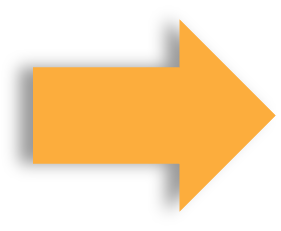
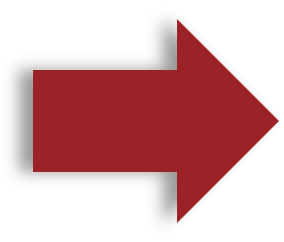
Updated GUI to include 'Ready' part and changed colors to white and red.

diff --git a/new_bci_framework/ui/ui.py b/new_bci_framework/ui/ui.py
@@ -4,6 +4,7 @@
 import numpy as np
 
 from new_bci_framework.config.config import Config
+from new_bci_framework.recorder.recorder import Recorder
 
 import time
 import pygame as pg
@@ -28,7 +29,7 @@ class UI:
 
         # colors:
         self.bg_color = (248, 240, 227)
-        self.bar_color = '#306DA3'
+        self.bar_color = '#9b2226'
 
         # font:
         pg.font.init()
@@ -39,6 +40,7 @@ class UI:
         self.bar_h = 20
         self.bar_x = self.screen_width / 2 - self.bar_w / 2
         self.bar_y = self.screen_height * 0.9 - self.bar_h / 2
+        self.curr_work: int = 0
 
         # To be added after init
         self.work: int = np.nan
@@ -51,17 +53,19 @@ class UI:
 
         self.screen.fill(self.bg_color)
         self.display_message('Hello, training session will start soon', self.center)
-        time.sleep(2)
+        time.sleep(self.config.PAUSE_LENGTH * 2)
 
         self.screen.fill(self.bg_color)
         self.display_message('Starting now', self.center)
-        time.sleep(1)
 
-    def display_event(self, label: str) -> None:
+    def display_event(self, recorder: Recorder, label: str) -> None:
         raise NotImplemented
 
     def set_work(self, work):
         self.work = work
+
+    def set_curr_work(self, curr_work):
+        self.curr_work = curr_work
 
     def add_images(self, images: Dict[str, str]):
         images = {label: pg.image.load(img) for label, img in images.items()}
@@ -79,7 +83,7 @@ class UI:
         self.screen.blit(image, image_rect)
         pg.display.flip()
 
-    def update_progress_bar(self, work_remained=0):
+    def update_progress_bar(self):
         # Border:
         pg.draw.rect(self.screen, self.bar_color, pg.Rect(self.bar_x, self.bar_y, self.bar_w, self.bar_h), 1)
 
@@ -87,19 +91,20 @@ class UI:
         if self.work == 0 or np.isnan(self.work):
             progress = 1
         else:
-            progress = 1 - work_remained / self.work
+            progress = 1 - (self.work - self.curr_work) / self.work
         pg.draw.rect(self.screen, self.bar_color, pg.Rect(self.bar_x, self.bar_y, self.bar_w * progress, self.bar_h))
-
-        pg.display.flip()
 
     def clear_screen(self):
         self.screen.fill(self.bg_color)
+        self.update_progress_bar()
         pg.display.flip()
 
     def quit(self):
+        self.set_curr_work(self.work)
         self.clear_screen()
+        time.sleep(self.config.PAUSE_LENGTH)
         self.display_message('Session is over, Thanks!', self.center)
-        time.sleep(1)
+        time.sleep(self.config.PAUSE_LENGTH)
         pg.quit()
 
     @staticmethod

diff --git a/new_bci_framework/paradigm/MI_paradigm.py b/new_bci_framework/paradigm/MI_paradigm.py
@@ -14,11 +14,8 @@ class MIParadigm(Paradigm):
 
     def __init__(self, config: Config, ui: UI):
         super(MIParadigm, self).__init__(config)
-        self.class_map = config.TRIAL_LABELS
-
+        self.trial_labels = config.TRIAL_LABELS
         self.num_trials_per_class = config.NUM_TRIALS_PER_CLASS
-        self.time_per_trial = config.TIME_PER_TRIAL
-        self.time_between_trials = config.TIME_BETWEEN_TRIALS
 
         self.events = self.__get_event_list()
         self.work = len(self.events)
@@ -30,15 +27,15 @@ class MIParadigm(Paradigm):
         self.ui.set_work(len(self.events))
 
         for i in range(self.work):
+            self.ui.set_curr_work(i)
             self.ui.clear_screen()
-            self.ui.update_progress_bar(work_remained=self.work - i)
             if self.ui.need_to_quit():
                 break
-            self.ui.display_event(self.events[i])
+            self.ui.display_event(recorder, self.events[i])
         self.ui.quit()
 
     def __get_event_list(self):
-        events = np.hstack([np.full(self.num_trials_per_class, key) for key in self.class_map.keys()])
+        events = np.hstack([np.full(self.num_trials_per_class, key) for key in self.trial_labels.keys()])
         np.random.default_rng().shuffle(events)
         return events
 

diff --git a/new_bci_framework/ui/offline_ui.py b/new_bci_framework/ui/offline_ui.py
@@ -3,6 +3,7 @@
 ########################################################################################################################
 from new_bci_framework.ui.ui import UI
 from new_bci_framework.config.config import Config
+from new_bci_framework.recorder.recorder import Recorder
 
 import pygame as pg
 from time import sleep
@@ -29,9 +30,17 @@ class OfflineUI(UI):
         pg.display.set_caption('Offline Session')
         super().setup()
 
-    def display_event(self, label: str):
-        sleep(self.config.TIME_BETWEEN_TRIALS)
-        self.display_message(msg=label)
+    def display_event(self, recorder: Recorder, label: str):
+        sleep(self.config.PAUSE_LENGTH)
+
+        self.display_message(msg=f'READY? Think {label}')
         self.display_image(self.images[label])
-        sleep(self.config.TIME_PER_TRIAL)
+        sleep(self.config.PRE_CUE_LENGTH)
+
+        self.clear_screen()
+        sleep(self.config.PAUSE_LENGTH)
+
+        recorder.push_marker(self.config.TRIAL_LABELS[label])
+        self.display_image(self.images[label])
+        sleep(self.config.CUE_LENGTH)
         self.clear_screen()

diff --git a/new_bci_framework/preprocessing/preprocessing_pipeline.py b/new_bci_framework/preprocessing/preprocessing_pipeline.py
@@ -31,14 +31,14 @@ class PreprocessingPipeline:
                             events,
                             tmin=self._config.TRIAL_START_TIME,
                             tmax=self._config.TRIAL_END_TIME,
-                            event_id= self._config.TRIAL_LABELS,
+                            event_id=self._config.TRIAL_LABELS,
                             verbose='INFO',
                             on_missing='warn')
         self.epochs = epochs
         return epochs
 
     def __feature_extraction(self, raw_data: mne.io.Raw):
-        labels = np.array(self._config.CLASSES.keys())
+        # labels = np.array(self._config.TRIAL_LABELS.values())
 
         bands_mat = [[15.5, 18.5],
                      [8, 10.5],

diff --git a/new_bci_framework/config/config.py b/new_bci_framework/config/config.py
@@ -30,10 +30,12 @@ class Config:
         self.TRIAL_LABELS = {label: i for i, label in enumerate(self.CLASSES, start=1)}
 
         self.NUM_TRIALS_PER_CLASS = num_trials
-        self.TIME_PER_TRIAL = 1
-        self.TIME_BETWEEN_TRIALS = 1
 
         # UI:
+        self.PRE_CUE_LENGTH = 2
+        self.PAUSE_LENGTH = 1
+        self.CUE_LENGTH = 3
+
         self.CLASSES_IMS = {val: f'ui/resources/{val.lower()}.png' for val in self.CLASSES}
 
         # PREPROCESSING:
